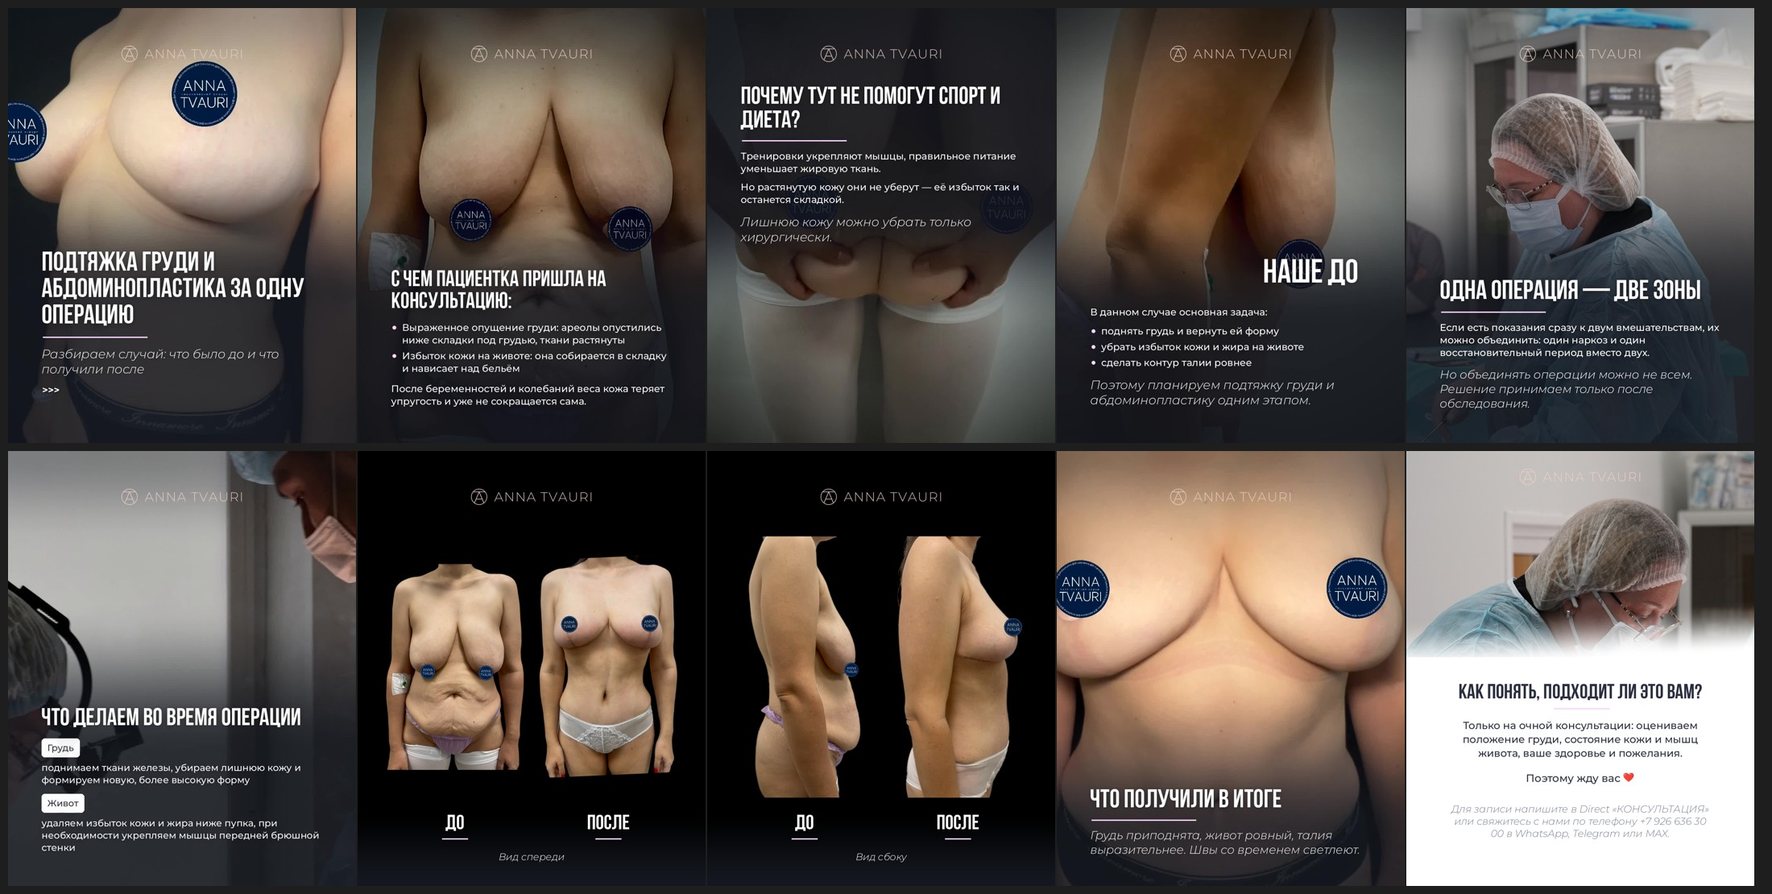
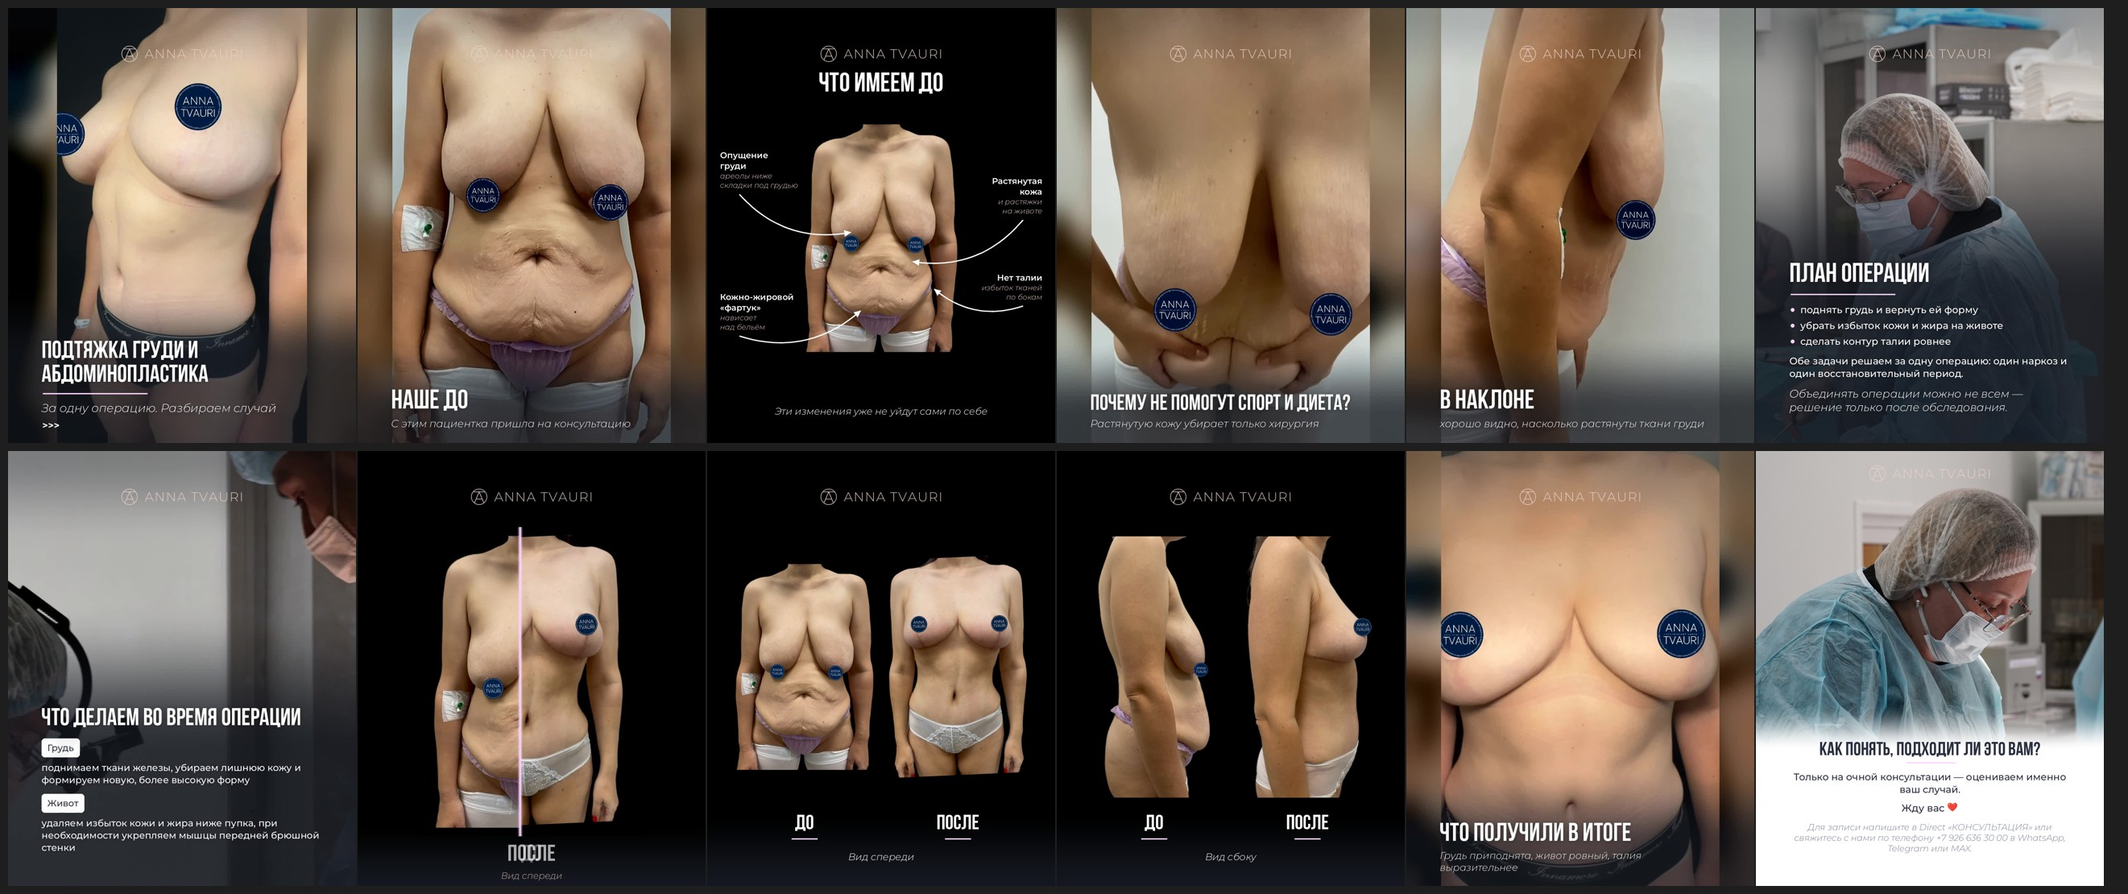
Carousel v2: full-body before/after footage, annotated before slide, before->after wipe, uncropped CTA photo
Claude-Session: https://claude.ai/code/session_01XB7jWmRDxB52StXcRzXaWE

diff --git a/tools/carousel_tvauri.py b/tools/carousel_tvauri.py
@@ -217,8 +217,15 @@ def render_video(name, srcs, ov, out, crop_y=0.5, zoom=1.0, grade="", trim=None)
     for i, (f, a, b) in enumerate(srcs):
         dur += (b or probe_dur(os.path.join(SRC, f))) - a
         ins += ["-ss", str(a)] + (["-to", str(b)] if b else []) + ["-i", os.path.join(SRC, f)]
-        sw = int(W * zoom)
-        fl.append(f"[{i}:v]scale={sw}:-2:flags=lanczos,crop={W}:{H}:(iw-{W})/2:(ih-{H})*{crop_y},setsar=1,fps=30,format=yuv420p[v{i}]")
+        if zoom >= 1:
+            sw = int(W * zoom)
+            fl.append(f"[{i}:v]scale={sw}:-2:flags=lanczos,crop={W}:{H}:(iw-{W})/2:(ih-{H})*{crop_y},setsar=1,fps=30,format=yuv420p[v{i}]")
+        else:  # whole body in frame: shrunk footage over a blurred, dimmed copy of itself
+            sw = int(W * zoom) // 2 * 2
+            fl.append(f"[{i}:v]split[a{i}][b{i}];"
+                      f"[a{i}]scale={W}:{H}:force_original_aspect_ratio=increase,crop={W}:{H},boxblur=40:2,eq=brightness=-0.10:saturation=0.8[bg{i}];"
+                      f"[b{i}]scale={sw}:-2:flags=lanczos,crop={sw}:'min(ih,{H})':0:'(ih-min(ih,{H}))*{crop_y}'[fg{i}];"
+                      f"[bg{i}][fg{i}]overlay=({W}-w)/2:0,setsar=1,fps=30,format=yuv420p[v{i}]")
     n = len(srcs)
     cat = "".join(f"[v{i}]" for i in range(n)) + f"concat=n={n}:v=1:a=0[cat]" if n > 1 else "[v0]null[cat]"
     g = f"[cat]{grade}[g]" if grade else "[cat]null[g]"
@@ -276,68 +283,198 @@ def save_jpg(canvas, out):
 
 
 # ================= slides =================
-GRADE_WALL = "eq=brightness=-0.06:contrast=1.04:saturation=0.95,vignette=PI/4.2"
+GRADE_WALL = "eq=brightness=-0.04:contrast=1.04:saturation=0.95"
 GRADE_DARK = "eq=contrast=1.03:saturation=1.02"
 
 
+def caption_overlay(block, bottom=1300, strength=0.72):
+    """short caption at the very bottom; shade only right under it so the body stays visible"""
+    ov = Image.new("RGBA", (W, H), (0, 0, 0, 0))
+    y = bottom - block.height()
+    ov.alpha_composite(vgrad(y - 170, y + 70, 0, strength))
+    ov.alpha_composite(vgrad(0, 230, 0.22, 0))
+    put_logo(ov)
+    block.draw(ov, MARGIN, y)
+    return ov
+
+
+def body_box(im, aspect, pad=0.03, wm_cut=0.90):
+    a = np.asarray(im.convert("L"))[: int(im.height * wm_cut)]
+    m = a > 40
+    e = 12; m[:e] = m[-e:] = False; m[:, :e] = m[:, -e:] = False
+    xs = np.where(m.mean(0) > 0.03)[0]; ys = np.where(m.mean(1) > 0.03)[0]
+    x0, x1, y0, y1 = xs.min(), xs.max(), ys.min(), ys.max()
+    bw, bh = x1 - x0, y1 - y0
+    ch = bh * (1 + 2 * pad); cw = ch * aspect
+    if cw < bw * (1 + 2 * pad): cw = bw * (1 + 2 * pad); ch = cw / aspect
+    cx, cy = (x0 + x1) / 2, (y0 + y1) / 2
+    return (int(cx - cw / 2), int(cy - ch / 2), int(cx + cw / 2), int(cy + ch / 2))
+
+
+def body_img(f, w, h, wm_cut=0.90):
+    im = load_photo(f); box = body_box(im, w / h, wm_cut=wm_cut)
+    return body_crop(im, w / h, wm_cut=wm_cut).resize((w, h), Image.LANCZOS), box
+
+
+# ---- 1. cover: after footage, whole torso visible
 def s01():
-    b = (Block().head("Подтяжка груди и абдоминопластика за одну операцию", 84, 22)
-         .rule().ital("Разбираем случай: что было до и что получили после", 38, 26).arrows())
+    b = (Block().head("Подтяжка груди и абдоминопластика", 76, 18).rule(0.30, 20)
+         .ital("За одну операцию. Разбираем случай", 36, 16).arrows())
     render_video("01", [("IMG_3375.MOV", 0, None), ("IMG_3376.MOV", 0, None), ("IMG_3377.MOV", 0, None)],
-                 text_overlay(b, bottom=1200), f"{OUT}/01_cover.mp4", crop_y=0.28, grade=GRADE_DARK)
+                 caption_overlay(b, 1310), f"{OUT}/01_cover.mp4", crop_y=0.0, zoom=0.72, grade=GRADE_DARK)
 
 
+# ---- 2. before footage, minimal caption
 def s02():
-    b = (Block().head("С чем пациентка пришла на консультацию:", 70, 26)
-         .bullets(["Выраженное опущение груди: ареолы опустились ниже складки под грудью, ткани растянуты",
-                   "Избыток кожи на животе: она собирается в складку и нависает над бельём"], 30, 24)
-         .body("После беременностей и колебаний веса кожа теряет упругость и уже не сокращается сама.", 30, 0))
-    render_video("02", [("IMG_3357.MOV", 0, None)], text_overlay(b), f"{OUT}/02_before.mp4", crop_y=0.12, grade=GRADE_WALL)
+    b = Block().head("Наше до", 84, 8).ital("С этим пациентка пришла на консультацию", 32, 0)
+    render_video("02", [("IMG_3357.MOV", 0, None)], caption_overlay(b, 1310), f"{OUT}/02_before.mp4",
+                 crop_y=0.0, zoom=0.80, grade=GRADE_WALL)
+
+
+# ---- 3. before photo with arrows
+def arrow(d, pts, col=WHITE + (255,), w=4, head=22):
+    pts = np.asarray(pts, float)
+    d.line([tuple(p) for p in pts], fill=col, width=w, joint="curve")
+    e = pts[-1]; v = pts[-1] - pts[-3]; v /= np.linalg.norm(v); n = np.array([-v[1], v[0]])
+    d.polygon([tuple(e + v * 4), tuple(e - v * head + n * head * 0.5), tuple(e - v * head - n * head * 0.5)], fill=col)
+
+
+def curve(a, b, bend=0.25, n=40):
+    a, b = np.asarray(a, float), np.asarray(b, float); m = (a + b) / 2; dd = b - a
+    c = m + np.array([-dd[1], dd[0]]) * bend; t = np.linspace(0, 1, n)[:, None]
+    return (1 - t) ** 2 * a + 2 * (1 - t) * t * c + t ** 2 * b
 
 
 def s03():
-    b = (Block().head("Почему тут не помогут спорт и диета?", 76, 22).rule()
-         .body("Тренировки укрепляют мышцы, правильное питание уменьшает жировую ткань.", 30, 18)
-         .body("Но растянутую кожу они не уберут — её избыток так и останется складкой.", 30, 26)
-         .ital("Лишнюю кожу можно убрать только хирургически.", 38, 0))
-    render_video("03", [("IMG_3374.MOV", 0, None)], text_overlay(b, top=240), f"{OUT}/03_why.mp4", crop_y=1.0, grade=GRADE_WALL)
+    S = 3  # supersample for smooth arrows
+    c = Image.new("RGBA", (W, H), (0, 0, 0, 255))
+    put_logo(c)
+    t = bebas(84); tw = t.getlength("ЧТО ИМЕЕМ ДО")
+    ImageDraw.Draw(c).text(((W - tw) / 2, 196), "ЧТО ИМЕЕМ ДО", font=t, fill=WHITE)
+    bw, bh = 500, 768; bx, by = (W - bw) // 2, 330
+    ph, box = body_img("IMG_7465.JPG", bw, bh)
+    c.paste(ph, (bx, by))
+    k = bw / (box[2] - box[0])
+    def P(x, y):  # point on the 512x910 preview of IMG_7465 -> canvas
+        return (bx + (x * 4 - box[0]) * k, by + (y * 4 - box[1]) * k)
+    hi = Image.new("RGBA", (W * S, H * S), (0, 0, 0, 0)); d = ImageDraw.Draw(hi)
+    f1, f2 = mont(26, 600), mont(23, 300, italic=True)
+    labels = [  # (text, note, label x, label y, align, target)
+        ("Опущение груди", "ареолы ниже\nскладки под грудью", 40, 440, "left", P(190, 440)),
+        ("Растянутая кожа", "и растяжки\nна животе", 830, 520, "right", P(325, 515)),
+        ("Кожно-жировой «фартук»", "нависает\nнад бельём", 40, 880, "left", P(215, 640)),
+        ("Нет талии", "избыток тканей\nпо бокам", 830, 820, "right", P(380, 585)),
+    ]
+    for title, note, lx, ly, al, tgt in labels:
+        tl = wrap(title, f1, 215); nl = note.split("\n")
+        yy = ly
+        for ln in tl:
+            x = lx if al == "left" else W - 40 - f1.getlength(ln)
+            shadow_text(c, (x, yy), ln, f1, WHITE); yy += 33
+        for ln in nl:
+            x = lx if al == "left" else W - 40 - f2.getlength(ln)
+            ImageDraw.Draw(c).text((x, yy), ln, font=f2, fill=POWDER); yy += 29
+        # arrow from under the label towards the target
+        sx = (lx + 60) if al == "left" else (W - 100)
+        sy = yy + 14
+        pts = curve((sx, sy), (tgt[0] + (-14 if al == "left" else 14), tgt[1]), 0.28 if al == "left" else -0.28)
+        arrow(d, pts * S, w=4 * S, head=20 * S)
+    hi = hi.resize((W, H), Image.LANCZOS)
+    c.alpha_composite(hi)
+    f = mont(30, 300, italic=True); cap = "Эти изменения уже не уйдут сами по себе"
+    ImageDraw.Draw(c).text(((W - f.getlength(cap)) / 2, 1232), cap, font=f, fill=WHITE)
+    save_jpg(c, f"{OUT}/03_before_arrows.jpg")
 
 
+# ---- 4. pinch video
 def s04():
-    ov = Image.new("RGBA", (W, H), (0, 0, 0, 0))
-    b = (Block().body("В данном случае основная задача:", 30, 20)
-         .bullets(["поднять грудь и вернуть ей форму", "убрать избыток кожи и жира на животе",
-                   "сделать контур талии ровнее"], 30, 26)
-         .ital("Поэтому планируем подтяжку груди и абдоминопластику одним этапом.", 38, 0))
-    y = 1240 - b.height()
-    ov.alpha_composite(vgrad(y - 420, y + 60, 0, 0.88)); ov.alpha_composite(vgrad(0, 300, 0.35, 0))
-    put_logo(ov)
-    hb = Block(align="right").head("Наше до", 104, 0)
-    hb.draw(ov, MARGIN - 40, y - 150)
-    b.draw(ov, MARGIN, y)
-    render_video("04", [("IMG_3358.MOV", 0, None)], ov, f"{OUT}/04_nashe_do.mp4", crop_y=0.05, grade=GRADE_WALL)
+    b = Block().head("Почему не помогут спорт и диета?", 68, 8).ital("Растянутую кожу убирает только хирургия", 32, 0)
+    render_video("04", [("IMG_3374.MOV", 0, None)], caption_overlay(b, 1310), f"{OUT}/04_why.mp4",
+                 crop_y=0.0, zoom=0.80, grade=GRADE_WALL)
 
 
+# ---- 5. bending video
 def s05():
+    b = Block().head("В наклоне", 84, 8).ital("хорошо видно, насколько растянуты ткани груди", 32, 0)
+    render_video("05", [("IMG_3358.MOV", 0, None)], caption_overlay(b, 1310), f"{OUT}/05_bend.mp4",
+                 crop_y=0.0, zoom=0.80, grade=GRADE_WALL)
+
+
+# ---- 6. surgeon photo: plan + one operation
+def s06():
     im = load_photo("DSC00831.JPG")
     c = fit_cover(im, W, H, cy=0.18, cx=0.45).convert("RGBA")
-    b = (Block().head("Одна операция — две зоны", 84, 20).rule()
-         .body("Если есть показания сразу к двум вмешательствам, их можно объединить: один наркоз и один восстановительный период вместо двух.", 30, 26)
-         .ital("Но объединять операции можно не всем. Решение принимаем только после обследования.", 36, 0))
-    y = 1250 - b.height()
-    c.alpha_composite(vgrad(y - 380, y + 120, 0, 0.84)); c.alpha_composite(vgrad(0, 300, 0.25, 0))
+    b = (Block().head("План операции", 84, 18).rule()
+         .bullets(["поднять грудь и вернуть ей форму", "убрать избыток кожи и жира на животе",
+                   "сделать контур талии ровнее"], 30, 22)
+         .body("Обе задачи решаем за одну операцию: один наркоз и один восстановительный период.", 30, 22)
+         .ital("Объединять операции можно не всем — решение только после обследования.", 34, 0))
+    y = 1260 - b.height()
+    c.alpha_composite(vgrad(y - 380, y + 120, 0, 0.86)); c.alpha_composite(vgrad(0, 300, 0.25, 0))
     put_logo(c); b.draw(c, MARGIN, y)
-    save_jpg(c, f"{OUT}/05_one_operation.jpg")
+    save_jpg(c, f"{OUT}/06_plan.jpg")
 
 
-def s06():
+# ---- 7. surgery footage
+def s07():
     b = (Block().head("Что делаем во время операции", 76, 24)
          .plaque("Грудь", 28, 14)
          .body("поднимаем ткани железы, убираем лишнюю кожу и формируем новую, более высокую форму", 29, 24)
          .plaque("Живот", 28, 14)
          .body("удаляем избыток кожи и жира ниже пупка, при необходимости укрепляем мышцы передней брюшной стенки", 29, 0))
-    render_video("06", [("IMG_8058.mov", 0, None)], text_overlay(b, bottom=1250), f"{OUT}/06_surgery.mp4",
+    render_video("07", [("IMG_8058.mov", 0, None)], text_overlay(b, bottom=1250), f"{OUT}/07_surgery.mp4",
                  crop_y=0.0, zoom=1.0, grade="eq=brightness=-0.03:contrast=1.04")
+
+
+# ---- 8. before -> after wipe
+def s08():
+    FPS = 30; cw, ch, cx, cy = 720, 960, (W - 720) // 2, 236
+    views = [("IMG_7465.JPG", "IMG_7475.JPG", "Вид спереди"), ("IMG_7466.JPG", "IMG_7469.JPG", "Вид сбоку")]
+    base = Image.new("RGBA", (W, H), (0, 0, 0, 255)); base.alpha_composite(vgrad(1150, H, 0, 1)); put_logo(base)
+    base = np.asarray(base.convert("RGB")).astype(np.float32)
+    def label_layer(lab, cap):
+        im = Image.new("RGBA", (W, H), (0, 0, 0, 0)); d = ImageDraw.Draw(im)
+        fb = bebas(72); tw = fb.getlength(lab); d.text(((W - tw) / 2, cy + ch + 22), lab, font=fb, fill=WHITE)
+        f = mont(28, 300, italic=True); tw = f.getlength(cap); d.text(((W - tw) / 2, cy + ch + 104), cap, font=f, fill=POWDER)
+        a = np.asarray(im).astype(np.float32) / 255; return a[..., :3] * a[..., 3:], a[..., 3:]
+    imgs = []
+    for bf, af, cap in views:
+        bi = np.asarray(body_crop(load_photo(bf), cw / ch).resize((cw, ch), Image.LANCZOS)).astype(np.float32)
+        ai = np.asarray(body_crop(load_photo(af), cw / ch).resize((cw, ch), Image.LANCZOS)).astype(np.float32)
+        imgs.append((bi, ai, label_layer("ДО", cap), label_layer("ПОСЛЕ", cap)))
+    HOLD_B, WIPE, HOLD_A, X = 1.2, 1.5, 2.0, 0.5
+    seg = HOLD_B + WIPE + HOLD_A
+    total = seg * 2 + X
+    xs = np.arange(cw)[None, :, None].astype(np.float32)
+    proc = subprocess.Popen(["ffmpeg", "-v", "error", "-y", "-f", "rawvideo", "-pix_fmt", "rgb24", "-s", f"{W}x{H}", "-r", str(FPS),
+                             "-i", "-", "-f", "lavfi", "-i", "anullsrc=r=48000:cl=stereo", "-t", f"{total:.3f}",
+                             "-c:v", "libx264", "-preset", "medium", "-crf", "17", "-pix_fmt", "yuv420p",
+                             "-c:a", "aac", "-b:a", "128k", "-movflags", "+faststart", f"{OUT}/08_transition.mp4"],
+                            stdin=subprocess.PIPE)
+    def frame_of(v, t):
+        bi, ai, lb, la = imgs[v]
+        p = min(max((t - HOLD_B) / WIPE, 0), 1); p = p * p * (3 - 2 * p)
+        lx = cw * (1 - p)  # line travels right -> left, "after" is revealed behind it
+        m = np.clip((xs - lx) / 6 + 0.5, 0, 1)
+        cell = bi * (1 - m) + ai * m
+        if 0 < p < 1:
+            glow = np.exp(-((xs - lx) / 5) ** 2)
+            cell = cell * (1 - glow) + np.array(LILAC, np.float32) * glow
+        fr = base.copy(); fr[cy:cy + ch, cx:cx + cw] = cell
+        q = min(max((p - 0.35) / 0.3, 0), 1)
+        for (col, al), w_ in ((lb, 1 - q), (la, q)):
+            if w_ > 0: fr = fr * (1 - al[..., 0:1] * w_) + col * 255 * w_
+        return fr
+    n = int(total * FPS)
+    for i in range(n):
+        t = i / FPS
+        if t < seg: fr = frame_of(0, t)
+        elif t < seg + X:  # cross-fade from front "after" to side "before"
+            k = (t - seg) / X; fr = frame_of(0, seg) * (1 - k) + frame_of(1, 0) * k
+        else: fr = frame_of(1, t - seg - X)
+        proc.stdin.write(np.clip(fr, 0, 255).astype(np.uint8).tobytes())
+    proc.stdin.close(); proc.wait()
+    run(["ffmpeg", "-v", "error", "-y", "-ss", "2.0", "-i", f"{OUT}/08_transition.mp4", "-frames:v", "1", f"{OUT}/08_transition_preview.jpg"])
 
 
 def before_after(name, before, after, caption, out, cut=0.90):
@@ -358,41 +495,47 @@ def before_after(name, before, after, caption, out, cut=0.90):
     save_jpg(c, out)
 
 
-def s07(): before_after("07", "IMG_7465.JPG", "IMG_7475.JPG", "Вид спереди", f"{OUT}/07_before_after_front.jpg")
-def s08(): before_after("08", "IMG_7466.JPG", "IMG_7469.JPG", "Вид сбоку", f"{OUT}/08_before_after_side.jpg")
+def s09(): before_after("09", "IMG_7465.JPG", "IMG_7475.JPG", "Вид спереди", f"{OUT}/09_before_after_front.jpg")
+def s10(): before_after("10", "IMG_7466.JPG", "IMG_7469.JPG", "Вид сбоку", f"{OUT}/10_before_after_side.jpg")
 
 
-def s09():
-    b = (Block().head("Что получили в итоге", 80, 20).rule(0.30, 22)
-         .ital("Грудь приподнята, живот ровный, талия выразительнее. Швы со временем светлеют.", 36, 0))
-    render_video("09", [("IMG_3378.MOV", 0, None)], text_overlay(b, bottom=1260), f"{OUT}/09_result.mp4", crop_y=0.50, grade=GRADE_DARK)
+# ---- 11. after footage, minimal caption
+def s11():
+    b = Block().head("Что получили в итоге", 80, 8).ital("Грудь приподнята, живот ровный, талия выразительнее", 30, 0)
+    render_video("11", [("IMG_3378.MOV", 0, None)], caption_overlay(b, 1310), f"{OUT}/11_result.mp4",
+                 crop_y=0.0, zoom=0.80, grade=GRADE_DARK)
 
 
-def s10():
+# ---- 12. CTA: surgeon photo kept whole (cap to shoulders), white panel below
+def s12():
+    PH = 930
     c = Image.new("RGBA", (W, H), WHITE + (255,))
-    ph = fit_cover(load_photo("DSC00888.JPG"), W, 640, cy=0.20, cx=0.5).convert("RGBA")
+    im = load_photo("DSC00888.JPG")
+    s = W / im.width; sh = im.height * s
+    off = 0.15 * sh  # start just above the surgical cap
+    ph = im.resize((W, round(sh)), Image.LANCZOS).crop((0, int(off), W, int(off) + PH)).convert("RGBA")
     c.alpha_composite(ph, (0, 0))
-    put_logo(c, y=80, alpha=0.95)
-    # soft white fade from photo into the panel
+    put_logo(c, y=70, alpha=0.95)
     arr = np.zeros((H, W, 4), np.uint8); arr[..., :3] = 255
-    ys = np.arange(H)[:, None]; xs = np.arange(W)[None, :]
-    p = np.clip((ys - 520 + (xs / W) * 60) / 160, 0, 1); arr[..., 3] = (p * p * (3 - 2 * p) * 255).astype(np.uint8)
+    ys = np.arange(H)[:, None]; p = np.clip((ys - (PH - 150)) / 150, 0, 1); p = np.broadcast_to(p, (H, W))
+    arr[..., 3] = (p * p * (3 - 2 * p) * 255).astype(np.uint8)
     c.alpha_composite(Image.fromarray(arr, "RGBA"))
-    bw = 820; x = (W - bw) // 2
-    b = (Block(bw, "center").head("Как понять, подходит ли это вам?", 64, 16, color=INK).rule(0.16, 30)
-         .body("Только на очной консультации: оцениваем положение груди, состояние кожи и мышц живота, ваше здоровье и пожелания.", 32, 34, 500, color=INK, lh=1.36))
-    y = b.draw(c, x, 720)
-    f = mont(33, 500); t = "Поэтому жду вас"; tw = f.getlength(t)
-    ImageDraw.Draw(c).text(((W - tw - 44) / 2, y), t, font=f, fill=INK)
-    heart(c, (W - tw - 44) / 2 + tw + 10, y + 4, 32)
-    y += 96
-    b2 = Block(bw, "center").ital("Для записи напишите в Direct «КОНСУЛЬТАЦИЯ» или свяжитесь с нами по телефону +7 926 636 30 00 в WhatsApp, Telegram или MAX.", 31, 0, color=MIST)
-    b2.draw(c, x, y)
-    save_jpg(c, f"{OUT}/10_cta.jpg")
+    bw = 860; x = (W - bw) // 2
+    b = (Block(bw, "center").head("Как понять, подходит ли это вам?", 58, 10, color=INK).rule(0.14, 22)
+         .body("Только на очной консультации — оцениваем именно ваш случай.", 30, 18, 500, color=INK))
+    y = b.draw(c, x, PH - 30)
+    f = mont(31, 500); t = "Жду вас"; tw = f.getlength(t)
+    ImageDraw.Draw(c).text(((W - tw - 42) / 2, y), t, font=f, fill=INK)
+    heart(c, (W - tw - 42) / 2 + tw + 10, y + 4, 30)
+    y += 62
+    Block(bw, "center").ital("Для записи напишите в Direct «КОНСУЛЬТАЦИЯ» или свяжитесь с нами по телефону +7 926 636 30 00 в WhatsApp, Telegram или MAX.", 27, 0, color=MIST).draw(c, x, y)
+    save_jpg(c, f"{OUT}/12_cta.jpg")
 
+
+SLIDES = [s01, s02, s03, s04, s05, s06, s07, s08, s09, s10, s11, s12]
 
 if __name__ == "__main__":
     os.makedirs(OUT, exist_ok=True)
-    for i, fn in enumerate([s01, s02, s03, s04, s05, s06, s07, s08, s09, s10], 1):
+    for i, fn in enumerate(SLIDES, 1):
         if not ONLY or i in ONLY:
             fn(); print("done", i, flush=True)
